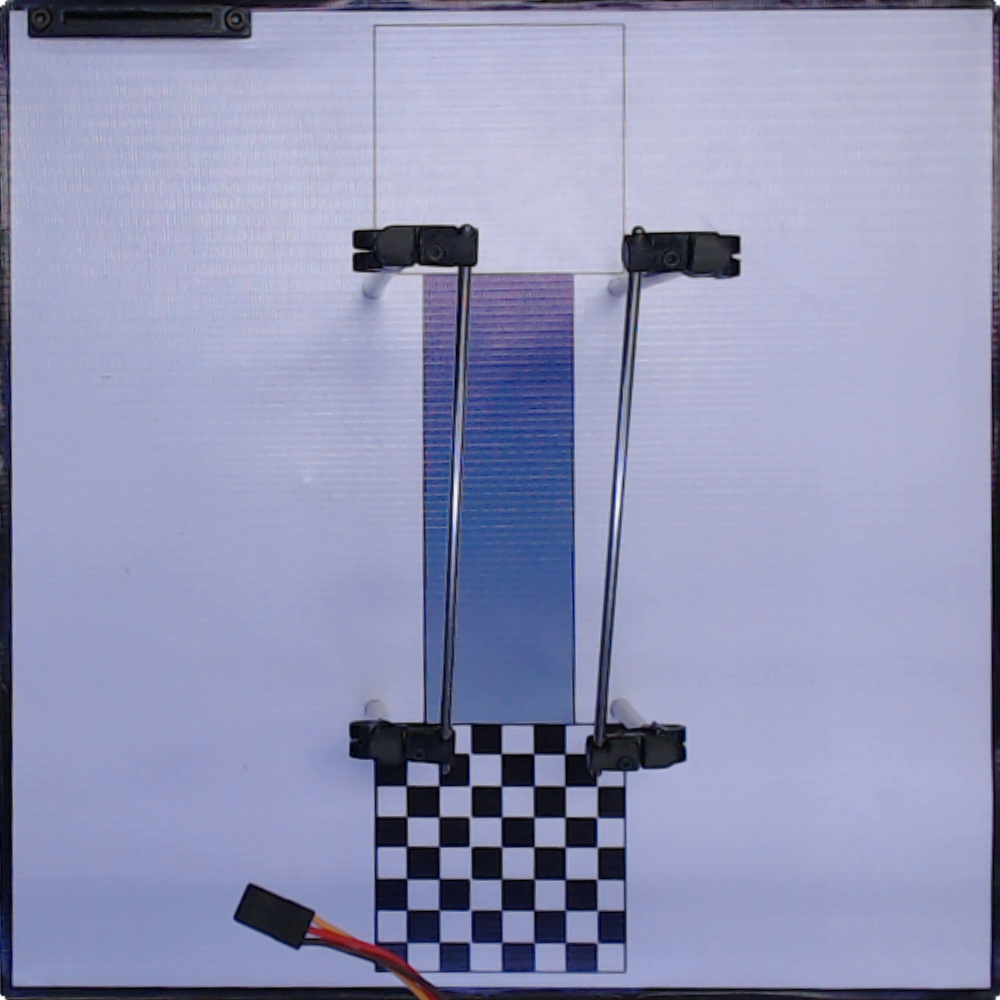
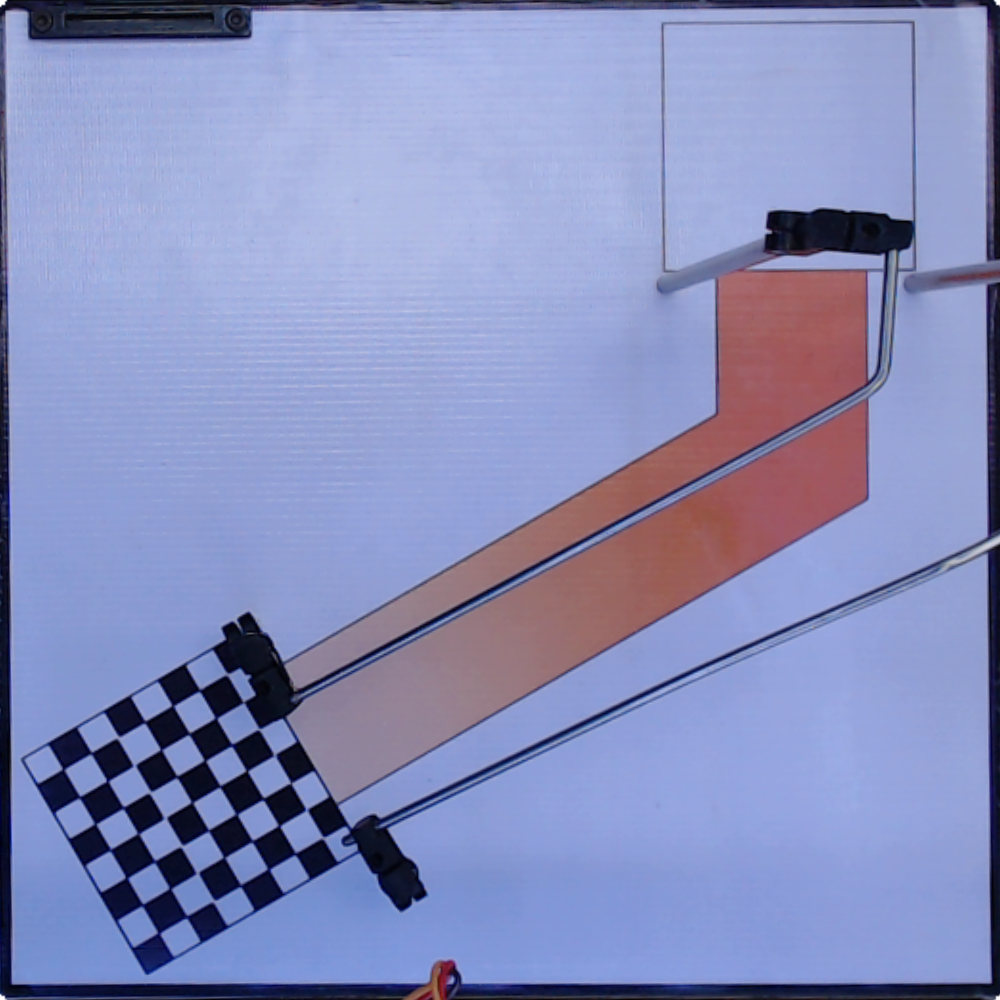
update capture pic function

diff --git a/High_Lv/moduleM1/capture_map.py b/High_Lv/moduleM1/capture_map.py
@@ -204,7 +204,7 @@ def Perspective(debug=0, index_pic=0, cap=cv2.VideoCapture(0, cv2.CAP_DSHOW)):
         
         print(count)
         key = cv2.waitKey(20) & 0xFF
-        if count >= 10:
+        if count >= 5:
             cv2.imwrite(
                 "C:/github/Module6-7/High_Lv/moduleM1/pic_input/"+str(index_pic)+".png", result)
             return result
@@ -221,6 +221,7 @@ if __name__ == '__main__':
         cap = cv2.VideoCapture(0, cv2.CAP_DSHOW)
         cap.set(3, 1280)
         cap.set(4, 720)
+        cap.set(cv2.CAP_PROP_AUTOFOCUS,0) # turn the autofocus off
         Square_Root = communication()
         Square_Root.Go2home()
         Path = [[350, 0, 400, 0], [350, 40, 400, 0], [350, 80, 400, 0], [350, 120, 400, 0], [350, 160, 400, 0],
@@ -235,7 +236,7 @@ if __name__ == '__main__':
                 break
             print("Move to " + str(Path[i]))
             Square_Root.Move2point(Path[i][0], Path[i][1], Path[i][2], 0)
-            time.sleep(2)
+            # time.sleep(2)
             print("Move success!!")
             i += 1
             images.append(Perspective(index_pic=i, cap=cap))
